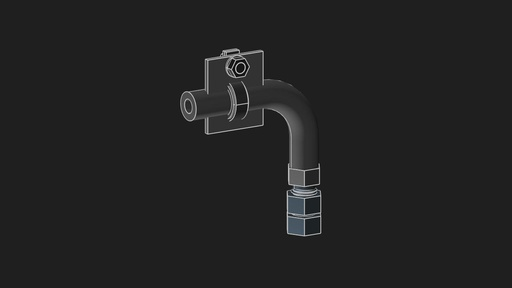
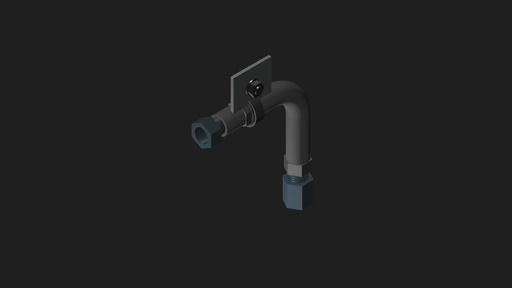
fix(cad): fit the free hose end — socket + AN818 nut, both ends now terminated
The AN-4 assembly's outboard hose end ran bare into space; a hose
assembly is fitted at both ends. Adds a cloned socket + AN818 nut
rotated onto the end of the horizontal run, placement derived in
parameters.kcl mirroring the union-end stack. Re-rendered
assembly-main.jpg from the engine.

Also records TOOLING-NOTES §5: rotate/translate compose in the rotated
LOCAL frame by default — a default translate after a global rotate
lands parts far from the stated coordinates, silently.

Changed region(s): [[0.3438, 0.1562, 0.6562, 0.8438]]

diff --git a/cad-an-fittings/assembly/TOOLING-NOTES.md b/cad-an-fittings/assembly/TOOLING-NOTES.md
@@ -83,3 +83,26 @@ a blank or solid-colour frame.
 
 Not a bug, but worth documenting: **custom camera distance and zoom-to-fit are
 mutually exclusive**, and there is no feedback when zoom silently wins.
+
+---
+
+## 5. `translate` after `rotate` composes in the rotated local frame by default
+
+**Class:** language ergonomics. **Severity: medium — parts land far from where
+the numbers say, with no error.**
+
+Both `rotate` and `translate` default to `global = false`. The natural assembly
+idiom — rotate a part to orientation, then translate it into place with world
+coordinates in hand — silently breaks: after the rotation, a default translate
+moves along the part's *rotated* local axes. `translate(x = 2.58, z = 3.05)` on
+a part just rotated −90° about Y displaces it to world (−3.05, 0, 2.58). The
+free-end fitting in this assembly rendered ~3 in away from the hose end on the
+first attempt because of exactly this.
+
+The fix is `global = true` on **both** transforms (section 7 of
+`main-rev2.kcl`). Nothing errors and nothing warns; the only symptom is
+geometry somewhere it should not be, and the render is what catches it.
+
+**Suggested fix:** say in the `rotate`/`translate` docs that the two compose in
+the local frame by default, or lint a default-frame translate that follows a
+`global = true` rotate in the same pipe.
